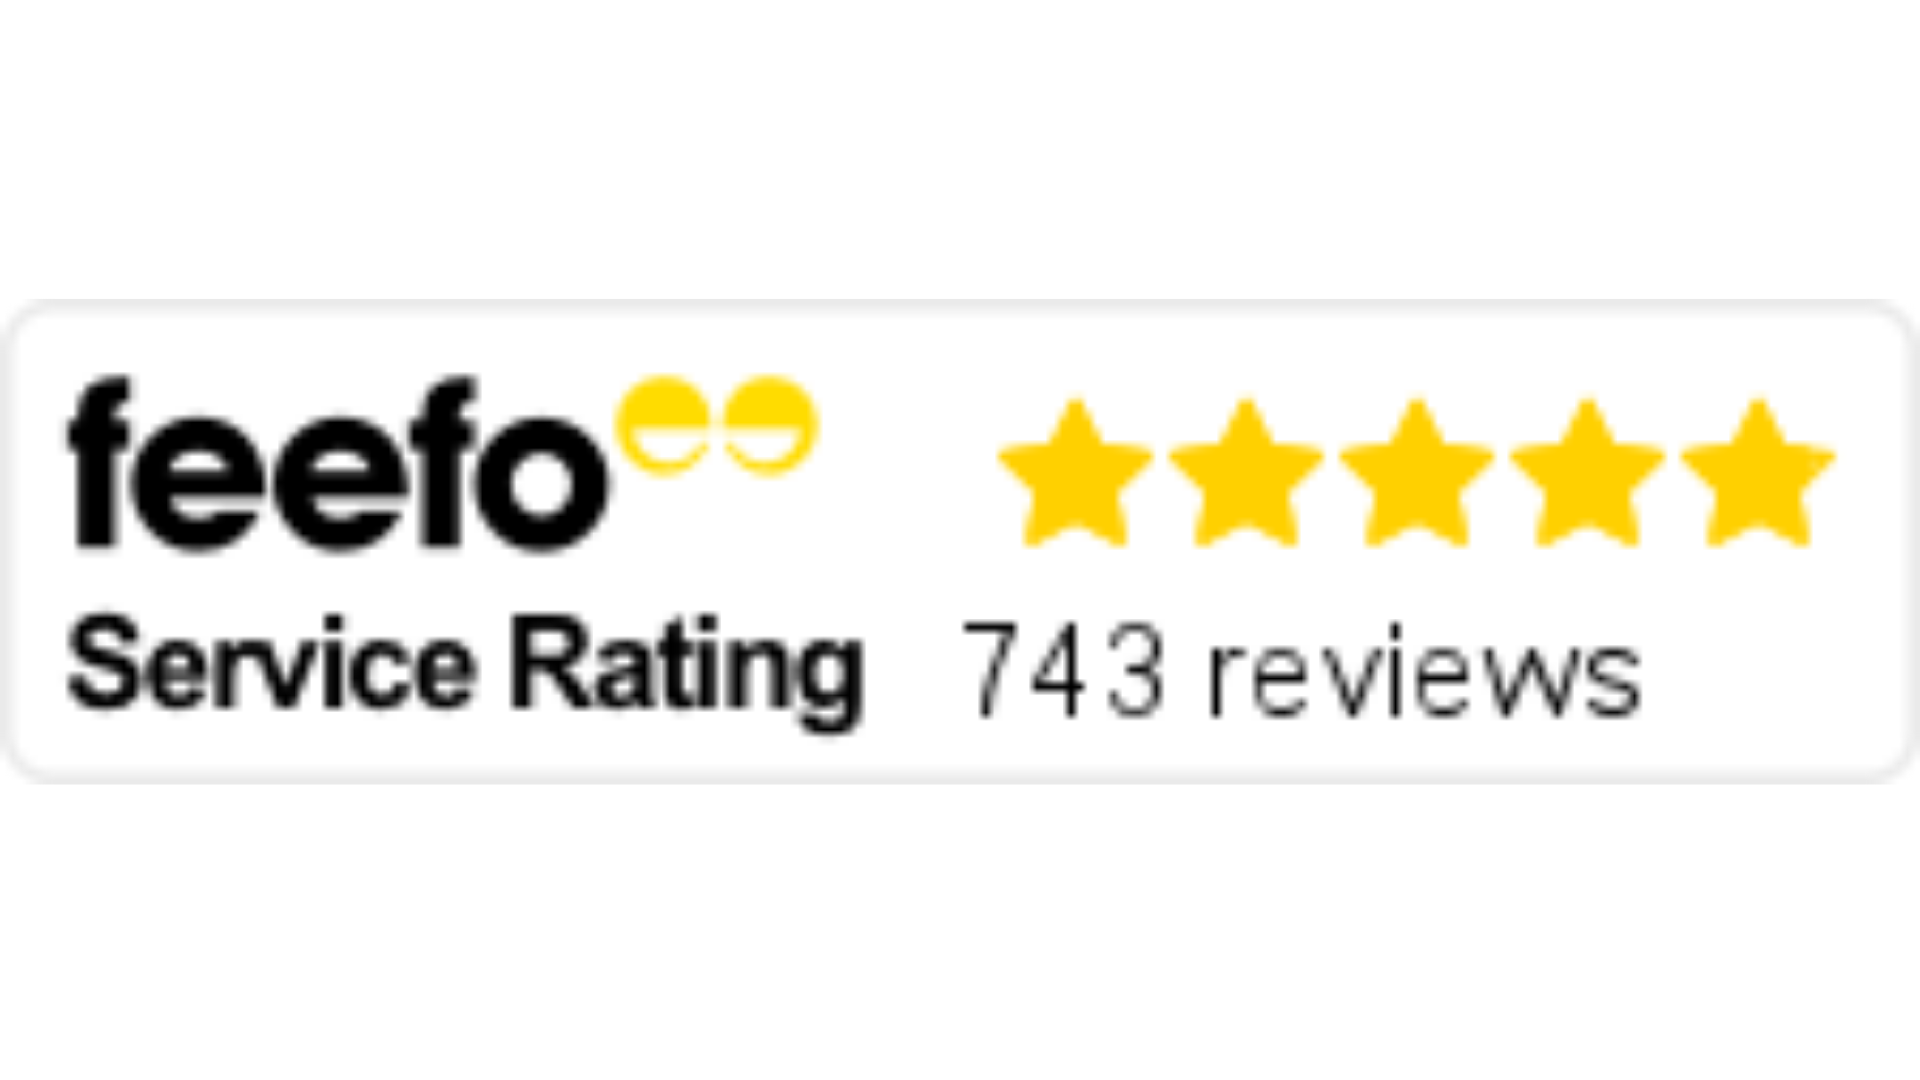
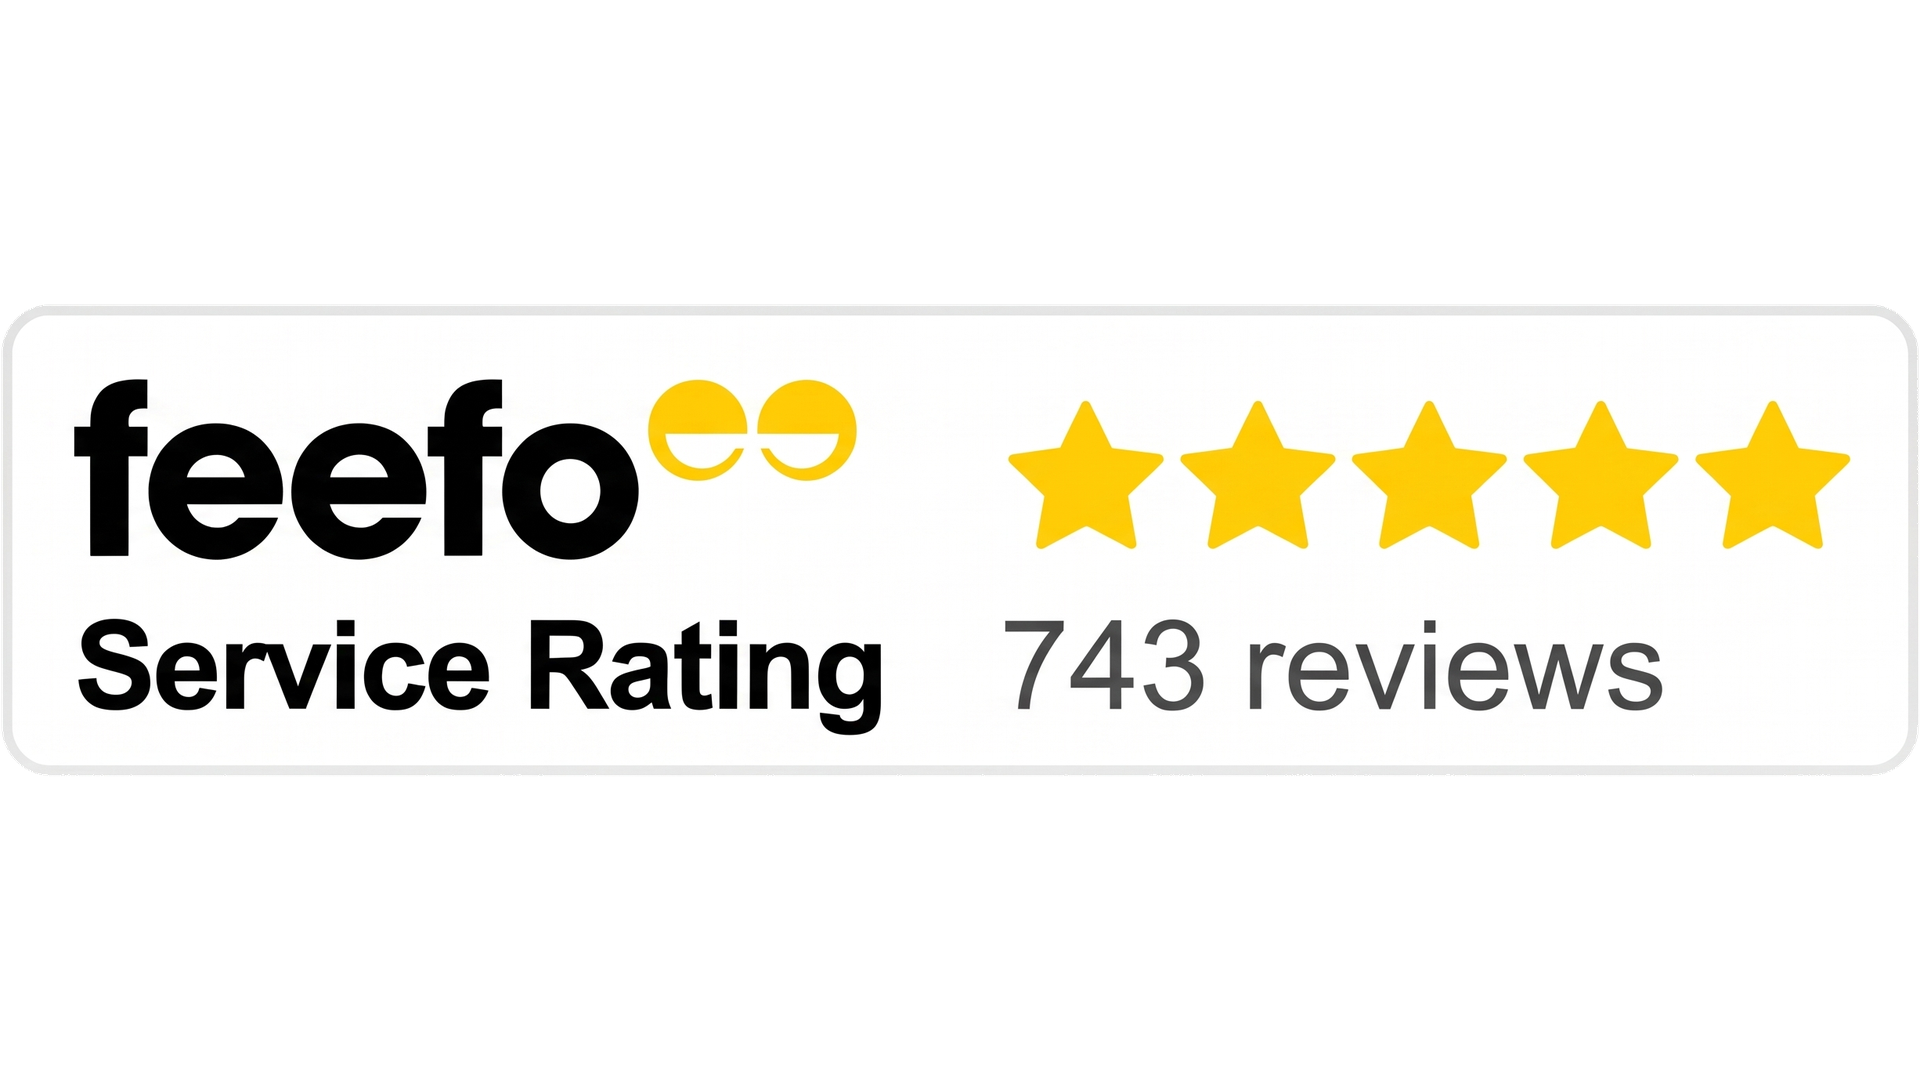
Sharp Feefo rating badge; trust line removed under the contact forms

diff --git a/Contact Altrincham.dc.html b/Contact Altrincham.dc.html
@@ -404,7 +404,6 @@
           <div style="display:flex;flex-direction:column;gap:12px;">
             <p style="font-size:13px;color:#6B7280;line-height:1.6;margin:0;">Your details will only be used to answer your query and they will not be stored for marketing purposes.</p>
                 <button type="submit" class="cf-btn" id="cfSubmit" style="align-self:flex-start;"><span class="cf-btn-label">Get my no-obligation quote</span><span class="cf-spinner" aria-hidden="true"></span></button>
-            <p style="margin:0;font-size:13.5px;color:#8A94A6;display:flex;align-items:center;gap:8px;"><span style="width:22px;height:22px;border-radius:6px;background:#1EBABB;display:inline-flex;align-items:center;justify-content:center;flex:none;"><i data-lucide="lock" style="width:13px;height:13px;color:#fff;"></i></span> Takes under a minute &middot; A specialist calls within one working day &middot; No obligation &middot; Encrypted (TLS)</p>
           </div>
 
           <p id="cfFormError" role="alert" style="display:none;margin:0;font-size:14px;color:#d64545;font-weight:600;background:rgba(214,69,69,.08);border:1px solid rgba(214,69,69,.3);border-radius:8px;padding:10px 14px;"></p>

diff --git a/Contact Cheshire East.dc.html b/Contact Cheshire East.dc.html
@@ -388,7 +388,6 @@
           <div style="display:flex;flex-direction:column;gap:12px;">
             <p style="font-size:13px;color:#6B7280;line-height:1.6;margin:0;">Your details will only be used to answer your query and they will not be stored for marketing purposes.</p>
                 <button type="submit" class="cf-btn" id="cfSubmit" style="align-self:flex-start;"><span class="cf-btn-label">Get my no-obligation quote</span><span class="cf-spinner" aria-hidden="true"></span></button>
-            <p style="margin:0;font-size:13.5px;color:#8A94A6;display:flex;align-items:center;gap:8px;"><span style="width:22px;height:22px;border-radius:6px;background:#1EBABB;display:inline-flex;align-items:center;justify-content:center;flex:none;"><i data-lucide="lock" style="width:13px;height:13px;color:#fff;"></i></span> Takes under a minute &middot; A specialist calls within one working day &middot; No obligation &middot; Encrypted (TLS)</p>
           </div>
 
           <p id="cfFormError" role="alert" style="display:none;margin:0;font-size:14px;color:#d64545;font-weight:600;background:rgba(214,69,69,.08);border:1px solid rgba(214,69,69,.3);border-radius:8px;padding:10px 14px;"></p>

diff --git a/Contact Knutsford.dc.html b/Contact Knutsford.dc.html
@@ -404,7 +404,6 @@
           <div style="display:flex;flex-direction:column;gap:12px;">
             <p style="font-size:13px;color:#6B7280;line-height:1.6;margin:0;">Your details will only be used to answer your query and they will not be stored for marketing purposes.</p>
                 <button type="submit" class="cf-btn" id="cfSubmit" style="align-self:flex-start;"><span class="cf-btn-label">Get my no-obligation quote</span><span class="cf-spinner" aria-hidden="true"></span></button>
-            <p style="margin:0;font-size:13.5px;color:#8A94A6;display:flex;align-items:center;gap:8px;"><span style="width:22px;height:22px;border-radius:6px;background:#1EBABB;display:inline-flex;align-items:center;justify-content:center;flex:none;"><i data-lucide="lock" style="width:13px;height:13px;color:#fff;"></i></span> Takes under a minute &middot; A specialist calls within one working day &middot; No obligation &middot; Encrypted (TLS)</p>
           </div>
 
           <p id="cfFormError" role="alert" style="display:none;margin:0;font-size:14px;color:#d64545;font-weight:600;background:rgba(214,69,69,.08);border:1px solid rgba(214,69,69,.3);border-radius:8px;padding:10px 14px;"></p>

diff --git a/Contact Macclesfield.dc.html b/Contact Macclesfield.dc.html
@@ -404,7 +404,6 @@
           <div style="display:flex;flex-direction:column;gap:12px;">
             <p style="font-size:13px;color:#6B7280;line-height:1.6;margin:0;">Your details will only be used to answer your query and they will not be stored for marketing purposes.</p>
                 <button type="submit" class="cf-btn" id="cfSubmit" style="align-self:flex-start;"><span class="cf-btn-label">Get my no-obligation quote</span><span class="cf-spinner" aria-hidden="true"></span></button>
-            <p style="margin:0;font-size:13.5px;color:#8A94A6;display:flex;align-items:center;gap:8px;"><span style="width:22px;height:22px;border-radius:6px;background:#1EBABB;display:inline-flex;align-items:center;justify-content:center;flex:none;"><i data-lucide="lock" style="width:13px;height:13px;color:#fff;"></i></span> Takes under a minute &middot; A specialist calls within one working day &middot; No obligation &middot; Encrypted (TLS)</p>
           </div>
 
           <p id="cfFormError" role="alert" style="display:none;margin:0;font-size:14px;color:#d64545;font-weight:600;background:rgba(214,69,69,.08);border:1px solid rgba(214,69,69,.3);border-radius:8px;padding:10px 14px;"></p>

diff --git a/Contact Manchester.dc.html b/Contact Manchester.dc.html
@@ -403,7 +403,6 @@
           <div style="display:flex;flex-direction:column;gap:12px;">
             <p style="font-size:13px;color:#6B7280;line-height:1.6;margin:0;">Your details will only be used to answer your query and they will not be stored for marketing purposes.</p>
                 <button type="submit" class="cf-btn" id="cfSubmit" style="align-self:flex-start;"><span class="cf-btn-label">Get my no-obligation quote</span><span class="cf-spinner" aria-hidden="true"></span></button>
-            <p style="margin:0;font-size:13.5px;color:#8A94A6;display:flex;align-items:center;gap:8px;"><span style="width:22px;height:22px;border-radius:6px;background:#1EBABB;display:inline-flex;align-items:center;justify-content:center;flex:none;"><i data-lucide="lock" style="width:13px;height:13px;color:#fff;"></i></span> Takes under a minute &middot; A specialist calls within one working day &middot; No obligation &middot; Encrypted (TLS)</p>
           </div>
 
           <p id="cfFormError" role="alert" style="display:none;margin:0;font-size:14px;color:#d64545;font-weight:600;background:rgba(214,69,69,.08);border:1px solid rgba(214,69,69,.3);border-radius:8px;padding:10px 14px;"></p>

diff --git a/Contact Salford.dc.html b/Contact Salford.dc.html
@@ -404,7 +404,6 @@
           <div style="display:flex;flex-direction:column;gap:12px;">
             <p style="font-size:13px;color:#6B7280;line-height:1.6;margin:0;">Your details will only be used to answer your query and they will not be stored for marketing purposes.</p>
                 <button type="submit" class="cf-btn" id="cfSubmit" style="align-self:flex-start;"><span class="cf-btn-label">Get my no-obligation quote</span><span class="cf-spinner" aria-hidden="true"></span></button>
-            <p style="margin:0;font-size:13.5px;color:#8A94A6;display:flex;align-items:center;gap:8px;"><span style="width:22px;height:22px;border-radius:6px;background:#1EBABB;display:inline-flex;align-items:center;justify-content:center;flex:none;"><i data-lucide="lock" style="width:13px;height:13px;color:#fff;"></i></span> Takes under a minute &middot; A specialist calls within one working day &middot; No obligation &middot; Encrypted (TLS)</p>
           </div>
 
           <p id="cfFormError" role="alert" style="display:none;margin:0;font-size:14px;color:#d64545;font-weight:600;background:rgba(214,69,69,.08);border:1px solid rgba(214,69,69,.3);border-radius:8px;padding:10px 14px;"></p>

diff --git a/Contact Stockport.dc.html b/Contact Stockport.dc.html
@@ -404,7 +404,6 @@
           <div style="display:flex;flex-direction:column;gap:12px;">
             <p style="font-size:13px;color:#6B7280;line-height:1.6;margin:0;">Your details will only be used to answer your query and they will not be stored for marketing purposes.</p>
                 <button type="submit" class="cf-btn" id="cfSubmit" style="align-self:flex-start;"><span class="cf-btn-label">Get my no-obligation quote</span><span class="cf-spinner" aria-hidden="true"></span></button>
-            <p style="margin:0;font-size:13.5px;color:#8A94A6;display:flex;align-items:center;gap:8px;"><span style="width:22px;height:22px;border-radius:6px;background:#1EBABB;display:inline-flex;align-items:center;justify-content:center;flex:none;"><i data-lucide="lock" style="width:13px;height:13px;color:#fff;"></i></span> Takes under a minute &middot; A specialist calls within one working day &middot; No obligation &middot; Encrypted (TLS)</p>
           </div>
 
           <p id="cfFormError" role="alert" style="display:none;margin:0;font-size:14px;color:#d64545;font-weight:600;background:rgba(214,69,69,.08);border:1px solid rgba(214,69,69,.3);border-radius:8px;padding:10px 14px;"></p>

diff --git a/Contact Wilmslow.dc.html b/Contact Wilmslow.dc.html
@@ -404,7 +404,6 @@
           <div style="display:flex;flex-direction:column;gap:12px;">
             <p style="font-size:13px;color:#6B7280;line-height:1.6;margin:0;">Your details will only be used to answer your query and they will not be stored for marketing purposes.</p>
                 <button type="submit" class="cf-btn" id="cfSubmit" style="align-self:flex-start;"><span class="cf-btn-label">Get my no-obligation quote</span><span class="cf-spinner" aria-hidden="true"></span></button>
-            <p style="margin:0;font-size:13.5px;color:#8A94A6;display:flex;align-items:center;gap:8px;"><span style="width:22px;height:22px;border-radius:6px;background:#1EBABB;display:inline-flex;align-items:center;justify-content:center;flex:none;"><i data-lucide="lock" style="width:13px;height:13px;color:#fff;"></i></span> Takes under a minute &middot; A specialist calls within one working day &middot; No obligation &middot; Encrypted (TLS)</p>
           </div>
 
           <p id="cfFormError" role="alert" style="display:none;margin:0;font-size:14px;color:#d64545;font-weight:600;background:rgba(214,69,69,.08);border:1px solid rgba(214,69,69,.3);border-radius:8px;padding:10px 14px;"></p>

diff --git a/Contact.dc.html b/Contact.dc.html
@@ -381,7 +381,6 @@
           <div style="display:flex;flex-direction:column;gap:12px;">
             <p style="font-size:13px;color:#6B7280;line-height:1.6;margin:0;">Your details will only be used to answer your query and they will not be stored for marketing purposes.</p>
                 <button type="submit" class="cf-btn" id="cfSubmit" style="align-self:flex-start;"><span class="cf-btn-label">Get my no-obligation quote</span><span class="cf-spinner" aria-hidden="true"></span></button>
-            <p style="margin:0;font-size:13.5px;color:#8A94A6;display:flex;align-items:center;gap:8px;"><span style="width:22px;height:22px;border-radius:6px;background:#1EBABB;display:inline-flex;align-items:center;justify-content:center;flex:none;"><i data-lucide="lock" style="width:13px;height:13px;color:#fff;"></i></span> Takes under a minute &middot; A specialist calls within one working day &middot; No obligation &middot; Encrypted (TLS)</p>
           </div>
 
           <p id="cfFormError" role="alert" style="display:none;margin:0;font-size:14px;color:#d64545;font-weight:600;background:rgba(214,69,69,.08);border:1px solid rgba(214,69,69,.3);border-radius:8px;padding:10px 14px;"></p>

diff --git a/Careers.dc.html b/Careers.dc.html
@@ -345,7 +345,6 @@
           <div style="display:flex;flex-direction:column;gap:12px;">
             <p style="font-size:13px;color:#6B7280;line-height:1.6;margin:0;">Your details will only be used to answer your query and they will not be stored for marketing purposes.</p>
                 <button type="submit" class="cf-btn" id="cfSubmit" style="align-self:flex-start;"><span class="cf-btn-label">Submit application</span><span class="cf-spinner" aria-hidden="true"></span></button>
-            <p style="margin:0;font-size:13.5px;color:#8A94A6;display:flex;align-items:center;gap:8px;"><span style="width:22px;height:22px;border-radius:6px;background:#1EBABB;display:inline-flex;align-items:center;justify-content:center;flex:none;"><i data-lucide="lock" style="width:13px;height:13px;color:#fff;"></i></span> Takes under a minute &middot; A specialist calls within one working day &middot; No obligation &middot; Encrypted (TLS)</p>
           </div>
 
           <p id="cfFormError" role="alert" style="display:none;margin:0;font-size:14px;color:#d64545;font-weight:600;background:rgba(214,69,69,.08);border:1px solid rgba(214,69,69,.3);border-radius:8px;padding:10px 14px;"></p>
